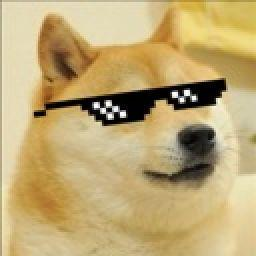
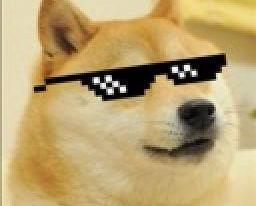
Modify crop key

diff --git a/main.go b/main.go
@@ -315,10 +315,19 @@ func main() {
 						if err != nil {
 							log.Fatal(fmt.Sprintf("Error encode changed image : %v", err))
 						}
-					case key.CodeS:
+					case key.CodeA, key.CodeW, key.CodeD, key.CodeS:
 						width := curCopyImage.Bounds().Max.X
 						height := curCopyImage.Bounds().Max.Y
-						curCopyImage = imaging.Crop(curCopyImage, image.Rect(25, 25, width-25, height-25))
+						if e.Code == key.CodeA {
+							curCopyImage = imaging.Crop(curCopyImage, image.Rect(0, 0, width-25, height))
+						} else if e.Code == key.CodeD {
+							curCopyImage = imaging.Crop(curCopyImage, image.Rect(25, 0, width, height))
+						} else if e.Code == key.CodeW {
+							curCopyImage = imaging.Crop(curCopyImage, image.Rect(0, 0, width, height-25))
+						} else if e.Code == key.CodeS {
+							curCopyImage = imaging.Crop(curCopyImage, image.Rect(0,25, width, height))
+						}
+						
 						err := EncodeImage(curCopyDir, curCopyImage)
 						if err != nil {
 							log.Fatal(fmt.Sprintf("Error encode changed image : %v", err))

diff --git a/README.md b/README.md
@@ -39,5 +39,8 @@ $ UpArrow key : up brightness
 $ DownArrow key : down brightness
 $ 'z' key : up contrast
 $ 'x' key : down contrast
-$ 's' key : crop image
+$ 'a' key : crop right side
+$ 'd' key : crop left side
+$ 'w' key : crop bottom side
+$ 's' key : crop top side
 ```
